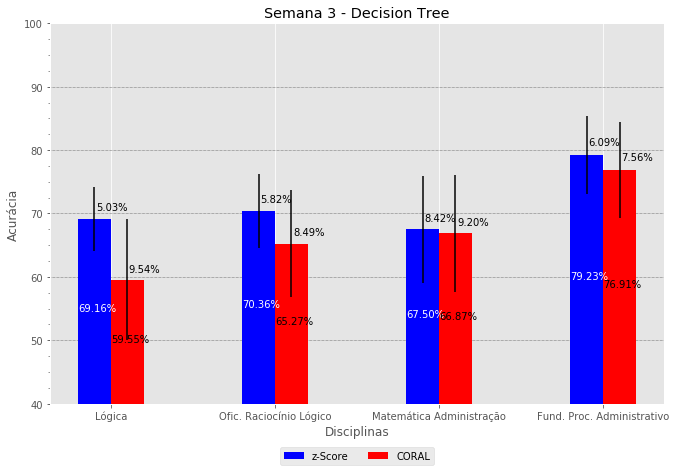
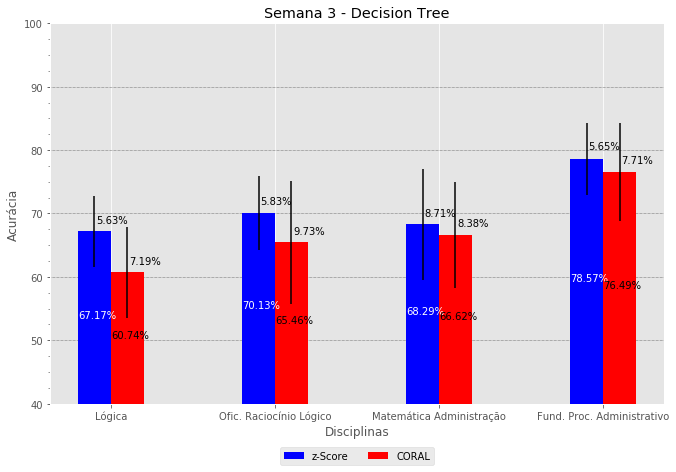
Geração de gráficos para análise

diff --git a/Dataset/Algoritmos/Experimento final/ml_tf_bayes.py b/Dataset/Algoritmos/Experimento final/ml_tf_bayes.py
@@ -35,9 +35,17 @@ def sumarizar(i, disciplina, classificador, df, result, coral=False):
     if (coral==True):
         result.set_value(i,classificador + 'Coral', df['Acur'].mean())
         result.set_value(i,classificador + 'CoralDP', df['Acur'].std(ddof=1))
+        result.set_value(i,classificador + 'PrecisionSucessoCoral', df['Precision Sucesso'].mean())
+        result.set_value(i,classificador + 'PrecisionInsucessoCoral', df['Precision Insucesso'].mean())
+        result.set_value(i,classificador + 'RecallSucessoCoral', df['Recall Sucesso'].mean())
+        result.set_value(i,classificador + 'RecallInsucessoCoral', df['Recall Insucesso'].mean())
     else:
         result.set_value(i,classificador, df['Acur'].mean())
         result.set_value(i,classificador + 'DP', df['Acur'].std(ddof=1))
+        result.set_value(i,classificador + 'PrecisionSucesso', df['Precision Sucesso'].mean())
+        result.set_value(i,classificador + 'PrecisionInsucesso', df['Precision Insucesso'].mean())
+        result.set_value(i,classificador + 'RecallSucesso', df['Recall Sucesso'].mean())
+        result.set_value(i,classificador + 'RecallInsucesso', df['Recall Insucesso'].mean())
 
 #Carrega dataset
 df = pd.read_csv('../../dataset_m3_m6.csv', sep=';')
@@ -52,7 +60,7 @@ use_coral = True
 #-------------------------------------------------------
 # Configuração de filtros para o dataset
 modulo_s = 6 #0 = ignora o módulo. Lembrando que só existem os módulos 3 e 6
-classificador = 3
+classificador = 1
 
 features = {
         50404: ['Questionario_Quantidade_Somado', 'Forum_TempoUso_Somado', 'Log_Post_Quantidade_Somado', 'Questionario_TempoUso_Somado', 'Login_Quantidade','Turno_TempoUsoTotal_Somado', 'Evadido','CodigoTurma'],
@@ -76,7 +84,7 @@ classificadores = {
         }
 
 result = pd.DataFrame()
-
+"""
 #-----------------------------------------
 disciplina_s = 60500
 disciplina_string = str(disciplinas[disciplina_s])
@@ -104,7 +112,7 @@ sumarizar(3, disciplina_string, classificadores[classificador], d1, result)
 d2 = preditor.process(df, disciplina_s, modulo_s, classificador, use_coral=True, use_normalization=True, use_normalization_turma=False)
 sumarizar(3, disciplina_string, classificadores[classificador], d2, result, coral=True)
 #-----------------------------------------
-
+"""
 #-----------------------------------------
 disciplina_s = 50404
 disciplina_string = str(disciplinas[disciplina_s])
@@ -169,19 +177,151 @@ ax.set_ylim(ymin=ymin, ymax=100)
 ax.legend((b1[0], b2[0]),
           ('z-Score', 'CORAL'),bbox_to_anchor=(0.5,-0.10), loc='upper center', ncol=2)
 
-#plt.legend(, loc=3,
-#           )
+ax.yaxis.grid(which="major", color='#000000', linestyle=':', linewidth=0.5)
 
-#ax.legend((l3[0], l4[0], l1[0], l2[0]),
-#          ('Treino Desbal. %', 'Teste Desbal. %', 'Acur. Original %', 'Acur. CORAL %'), 
-#          loc=4, bbox_to_anchor=(1.05, 1))
+ax.yaxis.grid(True)
 
-#plt.xticks((ind + (width * 2)) / 2)
+plt.show()
 
-#ax.grid(which='both')                                                            
+#--------------------------------
+#Plot Recall e Precision
 
-# or if you want differnet settings for the grids:                               
-#ax.grid(which='minor', alpha=0.4)                                                
+ymin = 0
+
+fig = plt.figure()                                                               
+ax = fig.add_subplot(1,1,1)  
+
+classif_str = classificadores[classificador]
+
+plt.title('Precision - Semana {} - {}'.format(modulo_s, classif_str))
+
+plt.ylabel('Precision')
+
+plt.xlabel('Disciplinas')
+
+major_ticks = np.arange(0, 101, 10)                                              
+minor_ticks = np.arange(0, 101, 2.5)
+
+ax.set_yticks(major_ticks)
+ax.set_yticks(minor_ticks, minor=True)
+
+ax.set_xticks(ind + (width * 3) / 2)
+ax.set_xticklabels(result['Disciplina'])
+
+b1 = ax.bar(ind, result[classif_str+'PrecisionInsucesso'], width, color='#0077d4')
+height = 0
+i = 0
+for rect in b1:
+    val = result.iloc[i][classif_str+'PrecisionInsucesso']
+    height = rect.get_height()
+    ax.text(rect.get_x(),(height + ymin)/2,"%.2f%%" % val, color='w')
+    i = i + 1
+            
+b2 = ax.bar(ind + width, result[classif_str+'PrecisionSucesso'], width, color='#c6e2ff')
+height = 0
+i = 0
+for rect in b2:
+    val = result.iloc[i][classif_str+'PrecisionSucesso']
+    height = rect.get_height()
+    ax.text(rect.get_x(),(height + ymin)/2,"%.2f%%" % val)
+    i = i + 1
+
+b3 = ax.bar(ind + (width*2), result[classif_str+'PrecisionInsucessoCoral'], width, color='#b22222')
+height = 0
+i = 0
+for rect in b3:
+    val = result.iloc[i][classif_str+'PrecisionInsucessoCoral']
+    height = rect.get_height()
+    ax.text(rect.get_x(),(height + ymin)/2,"%.2f%%" % val, color='w')
+    i = i + 1
+            
+b4 = ax.bar(ind + (width*3), result[classif_str+'PrecisionSucessoCoral'], width, color='#fa8072')
+height = 0
+i = 0
+for rect in b4:
+    val = result.iloc[i][classif_str+'PrecisionSucessoCoral']
+    height = rect.get_height()
+    ax.text(rect.get_x(),(height + ymin)/2,"%.2f%%" % val)
+    i = i + 1
+
+
+ax.set_ylim(ymin=ymin, ymax=100)
+
+ax.legend((b1[0], b2[0], b3[0], b4[0]),
+          ('Insucesso', 'Sucesso', 'Insucesso - CORAL', 'Sucesso - CORAL'),bbox_to_anchor=(0.5,-0.10), loc='upper center', ncol=4)
+
+ax.yaxis.grid(which="major", color='#000000', linestyle=':', linewidth=0.5)
+
+ax.yaxis.grid(True)
+
+plt.show()
+
+#-------------- PLOT RECALL -----------------#
+
+ymin = 0
+
+fig = plt.figure()                                                               
+ax = fig.add_subplot(1,1,1)  
+
+classif_str = classificadores[classificador]
+
+plt.title('Recall - Semana {} - {}'.format(modulo_s, classif_str))
+
+plt.ylabel('Recall')
+
+plt.xlabel('Disciplinas')
+
+major_ticks = np.arange(0, 101, 10)                                              
+minor_ticks = np.arange(0, 101, 2.5)
+
+ax.set_yticks(major_ticks)
+ax.set_yticks(minor_ticks, minor=True)
+
+ax.set_xticks(ind + (width * 3) / 2)
+ax.set_xticklabels(result['Disciplina'])
+
+b1 = ax.bar(ind, result[classif_str+'RecallInsucesso'], width, color='#0077d4')
+height = 0
+i = 0
+for rect in b1:
+    val = result.iloc[i][classif_str+'RecallInsucesso']
+    height = rect.get_height()
+    ax.text(rect.get_x(),(height + ymin)/2,"%.2f%%" % val, color='w')
+    i = i + 1
+            
+b2 = ax.bar(ind + width, result[classif_str+'RecallSucesso'], width, color='#c6e2ff')
+height = 0
+i = 0
+for rect in b2:
+    val = result.iloc[i][classif_str+'RecallSucesso']
+    height = rect.get_height()
+    ax.text(rect.get_x(),(height + ymin)/2,"%.2f%%" % val)
+    i = i + 1
+
+b3 = ax.bar(ind + (width*2), result[classif_str+'RecallInsucessoCoral'], width, color='#b22222')
+height = 0
+i = 0
+for rect in b3:
+    val = result.iloc[i][classif_str+'RecallInsucessoCoral']
+    height = rect.get_height()
+    ax.text(rect.get_x(),(height + ymin)/2,"%.2f%%" % val, color='w')
+    i = i + 1
+            
+b4 = ax.bar(ind + (width*3), result[classif_str+'RecallSucessoCoral'], width, color='#fa8072')
+height = 0
+i = 0
+for rect in b4:
+    val = result.iloc[i][classif_str+'RecallSucessoCoral']
+    height = rect.get_height()
+    ax.text(rect.get_x(),(height + ymin)/2,"%.2f%%" % val)
+    i = i + 1
+
+
+ax.set_ylim(ymin=ymin, ymax=100)
+
+ax.legend((b1[0], b2[0], b3[0], b4[0]),
+          ('Insucesso', 'Sucesso', 'Insucesso - CORAL', 'Sucesso - CORAL'),bbox_to_anchor=(0.5,-0.10), loc='upper center', ncol=4)
+
 ax.yaxis.grid(which="major", color='#000000', linestyle=':', linewidth=0.5)
 
 ax.yaxis.grid(True)

diff --git a/Dataset/Algoritmos/Experimento final/preditor.py b/Dataset/Algoritmos/Experimento final/preditor.py
@@ -16,6 +16,8 @@ import filter as filter
 import util as util
 import coral as coral
 
+import seaborn as sns
+
 from sklearn.utils import shuffle
 from sklearn import preprocessing
 from sklearn.model_selection import StratifiedKFold
@@ -71,6 +73,8 @@ def process(df, disciplina_s, modulo_s, classificador, use_coral, use_normalizat
     
     df_s_folds = util.sep_folds(df_s,'CodigoTurma')
     
+    sns.distplot(df_s.Evadido)
+    
     result = pd.DataFrame()
 
     model = None
@@ -87,7 +91,11 @@ def process(df, disciplina_s, modulo_s, classificador, use_coral, use_normalizat
         model = GridSearchCV(clf, parameters)    
 
     i = 1
-
+    
+    
+    
+    cm = np.matrix('0.0 0.0; 0.0 0.0')
+    
     print('---- Folds -----')
     
     for name, fold in df_s_folds:
@@ -153,6 +161,20 @@ def process(df, disciplina_s, modulo_s, classificador, use_coral, use_normalizat
     
         accuracy = accuracy_score(target_t, predicted)                                
         
+        cm_tmp = confusion_matrix(target_t, predicted)
+        
+        cm += confusion_matrix(target_t, predicted)
+        
+        TN = 0.0
+        FN = 0.0
+        TP = 0.0
+        FP = 0.0
+        
+        TN = cm_tmp[0][0]
+        FN = cm_tmp[1][0]
+        FP = cm_tmp[0][1]
+        TP = cm_tmp[1][1]
+        
         print('\t         Acurárica......: [%.2f]' % accuracy)
         
         result.set_value(i,'Classificador',classificadores[classificador])
@@ -160,6 +182,10 @@ def process(df, disciplina_s, modulo_s, classificador, use_coral, use_normalizat
         result.set_value(i,'Turma','T' + str(i))
         result.set_value(i,'Coral', use_coral)
         result.set_value(i,'Acur',accuracy * 100)
+        result.set_value(i,'Precision Insucesso', (TN / (TN + FN)) * 100 )
+        result.set_value(i,'Recall Insucesso', (TN / (TN+FP)) * 100 )
+        result.set_value(i,'Precision Sucesso', (TP / (TP + FP)) * 100 )
+        result.set_value(i,'Recall Sucesso', (TP / (TP+FN)) * 100 )
         result.set_value(i,'TreinoSucesso',len(target_s[target_s == 0]) / len(target_s) * 100)
         result.set_value(i,'TreinoInsucesso',len(target_s[target_s == 1]) / len(target_s) * 100)
         result.set_value(i,'TreinoDesbalanceamento',(len(target_s[target_s == 1]) / len(target_s) * 100) / (len(target_s[target_s == 0]) / len(target_s) * 100) * 5)
@@ -168,6 +194,8 @@ def process(df, disciplina_s, modulo_s, classificador, use_coral, use_normalizat
         result.set_value(i,'TesteDesbalanceamento',(len(target_t[target_t == 1]) / len(target_t) * 100) / (len(target_t[target_t == 0]) / len(target_t) * 100) * 5)
         
         i += 1
-
+    
+    #util.show_confusion_matrix(cm, class_labels=['Insucesso', 'Sucesso'])
+    
     return result;
   

diff --git a/Dataset/Algoritmos/util.py b/Dataset/Algoritmos/util.py
@@ -171,13 +171,13 @@ def show_confusion_matrix(C,class_labels=['0','1']):
 
     # Fill in secondary metrics: accuracy, true pos rate, etc...
     ax.text(2,0,
-            'Precision: %.2f'%(fp / (fp+tn+0.)),
+            'Recall: %.2f'%(tn / (tn+fp+0.)),
             va='center',
             ha='center',
             bbox=dict(fc='w',boxstyle='round'))
 
     ax.text(2,1,
-            'Precision: %.2f'%(tp / (tp+fn+0.)),
+            'Recall: %.2f'%(tp / (tp+fn+0.)),
             va='center',
             ha='center',
             bbox=dict(fc='w',boxstyle='round'))
@@ -189,13 +189,13 @@ def show_confusion_matrix(C,class_labels=['0','1']):
             bbox=dict(fc='w',boxstyle='round'))
 
     ax.text(0,2,
-            'Recall: %.2f'%(1-fn/(fn+tn+0.)),
+            'Precision: %.2f'%(1-fn/(fn+tn+0.)),
             va='center',
             ha='center',
             bbox=dict(fc='w',boxstyle='round'))
 
     ax.text(1,2,
-            'Recall: %.2f'%(tp/(tp+fp+0.)),
+            'Precision: %.2f'%(tp/(tp+fp+0.)),
             va='center',
             ha='center',
             bbox=dict(fc='w',boxstyle='round'))
